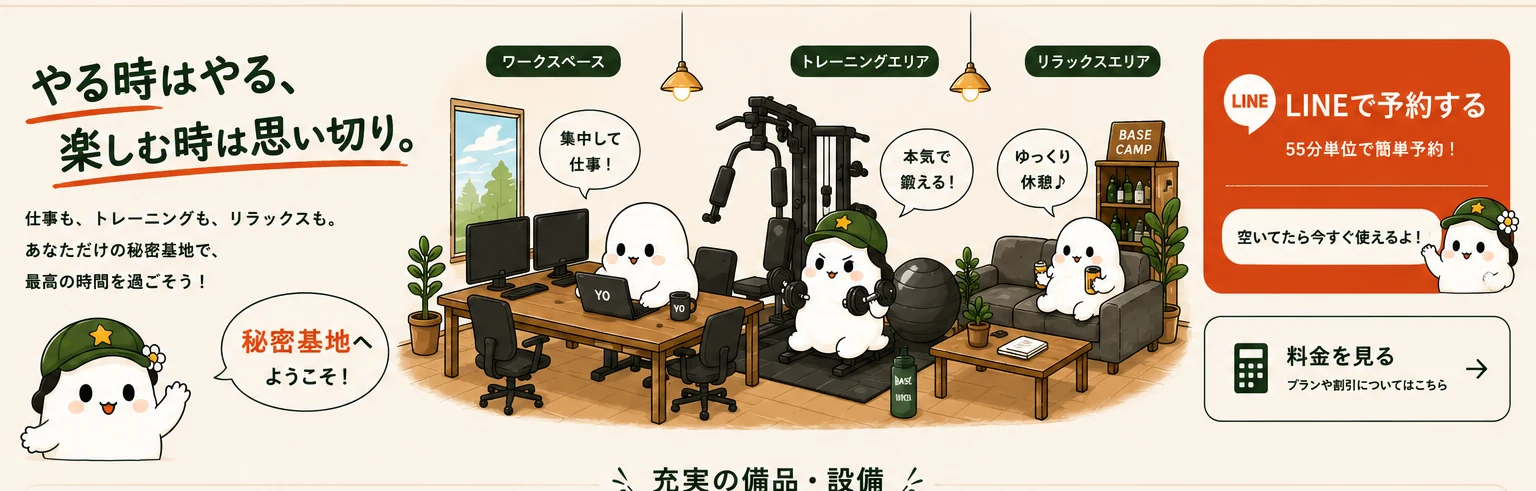
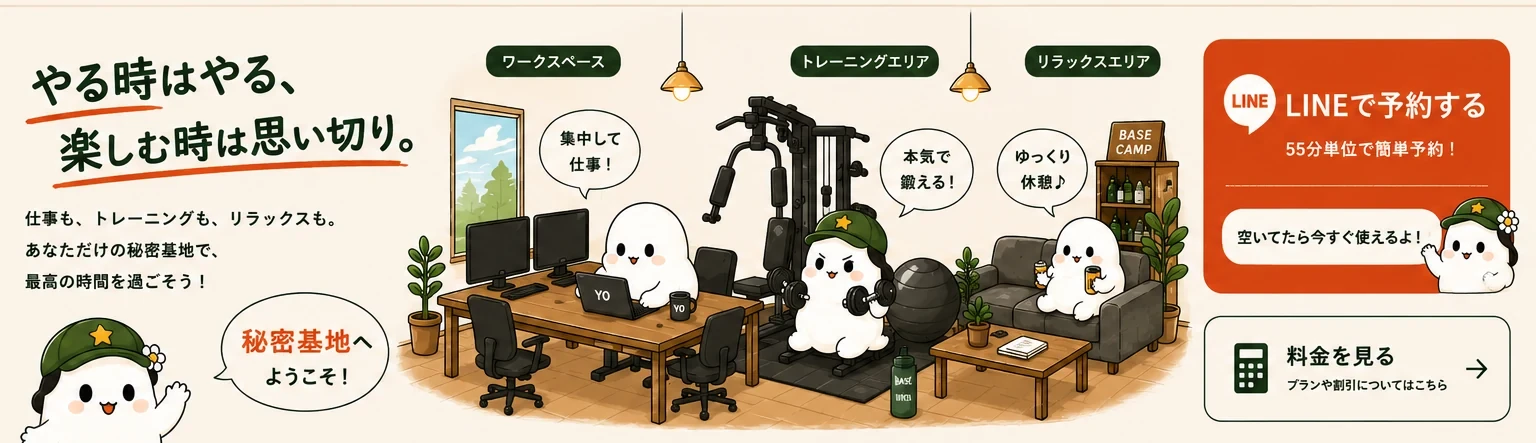
Add files via upload

diff --git a/style.css b/style.css
@@ -1,21 +1,138 @@
-const menu=document.querySelector('.menu-button');const nav=document.querySelector('.nav');
-menu.addEventListener('click',()=>{nav.classList.toggle('open');menu.setAttribute('aria-expanded',nav.classList.contains('open'))});
-document.querySelectorAll('.nav a').forEach(a=>a.addEventListener('click',()=>nav.classList.remove('open')));
-const observer=new IntersectionObserver(entries=>entries.forEach(entry=>{if(entry.isIntersecting)entry.target.classList.add('visible')}),{threshold:.12});
-document.querySelectorAll('.reveal').forEach(el=>observer.observe(el));
-document.getElementById('line-reserve').addEventListener('click',e=>{e.preventDefault();alert('LINE公式アカウントの予約URL取得後に接続します。')});
+@import url('https://fonts.googleapis.com/css2?family=Noto+Sans+JP:wght@400;600;800;900&display=swap');
+:root{--cream:#f8f1e7;--soft:#eee3d3;--green:#123d2a;--ink:#12251b;--red:#de3c2b;--orange:#ef5b24;--line:#d8cbb8}
+*{box-sizing:border-box}html{scroll-behavior:smooth}body{margin:0;background:var(--cream);color:var(--ink);font-family:'Noto Sans JP',sans-serif;line-height:1.8;overflow-x:hidden}
+.site-header{position:sticky;top:0;z-index:50;min-height:82px;display:flex;align-items:center;gap:28px;padding:12px 4vw;background:rgba(248,241,231,.97);border-bottom:1px solid var(--line);backdrop-filter:blur(10px)}
+.brand{display:flex;align-items:center;gap:12px;color:var(--green);text-decoration:none;font-weight:900;line-height:1}.brand-copy strong,.brand-copy small{display:block}.brand-copy strong{font-size:1.35em}.brand-copy small{font-size:10px;letter-spacing:.14em;margin-top:5px}.brand-emblem{display:grid;place-items:center;width:50px;height:50px;border:2px solid var(--green);border-radius:14px;font-size:14px}
+.nav{display:flex;gap:21px;margin-left:auto}.nav a{text-decoration:none;color:var(--ink);font-size:13px;font-weight:800}.menu-button{display:none;border:0;background:none;font-weight:900}
+.reserve-button{display:inline-block;background:linear-gradient(135deg,#ed4a32,var(--red));color:white;text-decoration:none;font-weight:900;border-radius:15px;padding:15px 28px;box-shadow:0 10px 24px rgba(222,60,43,.25);transition:.25s}.reserve-button:hover{transform:translateY(-4px) scale(1.025);box-shadow:0 16px 30px rgba(222,60,43,.36)}.reserve-button:active{transform:scale(.98)}.compact{padding:12px 18px;font-size:13px}
+.hero{width:100%;background:#fff;overflow:hidden}.hero img{display:block;width:100%;height:auto}
+.section{max-width:1180px;margin:auto;padding:88px 5vw;position:relative;overflow:hidden}.section.soft{max-width:none;background:var(--soft);padding-left:max(5vw,calc((100vw - 1180px)/2 + 5vw));padding-right:max(5vw,calc((100vw - 1180px)/2 + 5vw))}
+.section-label{color:var(--red);font-size:13px;font-weight:900;letter-spacing:.14em}.section h1,.section h2{font-size:clamp(32px,4vw,56px);line-height:1.25;margin:.1em 0 .5em}.lead{font-size:18px;max-width:850px}
+.equipment-grid{display:grid;grid-template-columns:repeat(3,1fr);gap:20px;margin-top:32px}.equipment-grid article{background:#fff;border:1px solid var(--line);border-radius:24px;padding:27px;transition:.25s;overflow:hidden}.equipment-grid article:hover{transform:translateY(-6px)}.equipment-art{display:block;width:100%;height:200px;color:#2f3d35;background:#fbf8f2;border-radius:18px;padding:10px}.equipment-grid h3{font-size:22px;margin:.8em 0 .25em}
+.price-grid{display:grid;grid-template-columns:repeat(5,1fr);gap:14px;margin-top:34px}.price-grid article{position:relative;display:flex;flex-direction:column;text-align:center;background:#fff;border:1px solid var(--line);border-radius:18px;padding:24px 12px}.price-grid span{font-weight:900;font-size:22px}.price-grid strong{font-size:34px;margin:.45em 0}.price-grid small{opacity:.7}.price-grid .popular{border:3px solid var(--orange)}.price-grid .popular b{position:absolute;top:-18px;left:50%;transform:translateX(-50%);background:var(--orange);color:#fff;padding:5px 15px;border-radius:999px;white-space:nowrap}
+.persona-layout{display:grid;grid-template-columns:1.2fr .8fr;gap:38px;align-items:center}.persona-image{display:block;width:100%;max-height:620px;object-fit:contain;border-radius:25px;box-shadow:0 16px 40px rgba(20,40,28,.12)}.note{background:#fff5d9;border-left:5px solid #d7aa3b;padding:16px 18px}
+.story-copy{max-width:900px}.story-copy p{margin:0 0 1.15em}.quote{font-size:clamp(24px,3vw,38px);font-weight:900;color:var(--green);border-left:7px solid var(--red);padding-left:22px;margin-top:1.5em!important}
+.access-card{display:flex;align-items:center;justify-content:space-between;gap:28px;background:#fff;border:1px solid var(--line);border-radius:24px;padding:28px}.access-card strong{font-size:23px}.outline-button{display:inline-block;border:2px solid var(--green);color:var(--green);text-decoration:none;padding:13px 20px;border-radius:14px;font-weight:900;white-space:nowrap;transition:.25s}.outline-button:hover{background:var(--green);color:#fff;transform:translateY(-3px)}
+.reserve-section{text-align:center;background:var(--green);color:#fff;padding:85px 5vw;overflow:hidden}.reserve-section p{font-size:clamp(26px,4vw,46px);font-weight:900}.reserve-section small{display:block;margin-top:17px;opacity:.75}
+footer{display:flex;justify-content:space-between;gap:20px;background:#071e15;color:#fff;padding:26px 5vw;font-size:13px}
+.reveal{opacity:0;transform:translateY(26px);transition:.75s ease}.reveal.visible{opacity:1;transform:none}.float-motion{animation:float 4s ease-in-out infinite}.pulse{animation:pulse 2.2s ease-in-out infinite}
+@keyframes float{50%{transform:translateY(-8px)}}@keyframes pulse{50%{box-shadow:0 0 0 9px rgba(237,74,50,.13),0 14px 28px rgba(222,60,43,.36)}}
+@media(max-width:950px){.nav{display:none;position:absolute;top:82px;left:0;right:0;flex-direction:column;padding:22px 6vw;background:var(--cream);border-bottom:1px solid var(--line)}.nav.open{display:flex}.menu-button{display:block;margin-left:auto}.compact{display:none}.equipment-grid{grid-template-columns:1fr}.price-grid{grid-template-columns:1fr 1fr}.persona-layout{grid-template-columns:1fr}.access-card{flex-direction:column;align-items:flex-start}footer{flex-direction:column;text-align:center}}
+@media(max-width:560px){.site-header{min-height:72px}.nav{top:72px}.brand-emblem{width:42px;height:42px}.section{padding-top:66px;padding-bottom:66px}.price-grid{grid-template-columns:1fr}.hero img{width:150%;max-width:none;transform:translateX(-18%)}.equipment-art{height:180px}}
 
-const imageModal=document.querySelector('.image-modal');
-const modalImage=imageModal.querySelector('img');
-const closeModal=()=>{imageModal.classList.remove('open');imageModal.setAttribute('aria-hidden','true');modalImage.src='';};
-document.querySelectorAll('.zoomable').forEach(button=>{
-  button.addEventListener('click',()=>{
-    modalImage.src=button.dataset.image;
-    modalImage.alt=button.querySelector('img').alt;
-    imageModal.classList.add('open');
-    imageModal.setAttribute('aria-hidden','false');
-  });
-});
-imageModal.querySelector('.modal-close').addEventListener('click',closeModal);
-imageModal.addEventListener('click',event=>{if(event.target===imageModal)closeModal();});
-document.addEventListener('keydown',event=>{if(event.key==='Escape')closeModal();});
+.material-grid{display:grid;grid-template-columns:1fr 1fr;gap:24px;margin-top:32px}
+.visual-card{display:block;width:100%;padding:0;border:1px solid var(--line);border-radius:24px;background:#fff;overflow:hidden;cursor:pointer;text-align:left;box-shadow:0 12px 34px rgba(25,43,32,.08);transition:.25s}
+.visual-card:hover{transform:translateY(-5px);box-shadow:0 18px 42px rgba(25,43,32,.15)}
+.visual-card img{display:block;width:100%;height:auto}
+.visual-card span{display:block;padding:14px 18px;color:var(--green);font-weight:900;text-align:center}
+.image-modal{position:fixed;inset:0;z-index:100;display:none;align-items:center;justify-content:center;padding:4vw;background:rgba(5,18,12,.9)}
+.image-modal.open{display:flex}
+.image-modal img{max-width:96vw;max-height:90vh;object-fit:contain;border-radius:14px;background:#fff}
+.modal-close{position:absolute;top:18px;right:22px;width:46px;height:46px;border:0;border-radius:50%;background:#fff;color:var(--ink);font-size:30px;line-height:1;cursor:pointer}
+@media(max-width:950px){.material-grid{grid-template-columns:1fr}}
+
+
+/* Version 1.5 refinements */
+.site-header{
+  gap:18px;
+  padding-left:2.2vw;
+  padding-right:2.2vw;
+}
+.brand{flex:0 0 auto}
+.brand-copy{white-space:nowrap}
+.nav{
+  flex:1 1 auto;
+  min-width:0;
+  justify-content:center;
+  gap:clamp(10px,1.25vw,20px);
+  white-space:nowrap;
+}
+.nav a{
+  font-size:clamp(11px,.82vw,13px);
+  line-height:1;
+  white-space:nowrap;
+}
+.compact{
+  flex:0 0 auto;
+  padding:11px 15px;
+  font-size:12px;
+  white-space:nowrap;
+}
+.hero img{
+  width:100%;
+  height:auto;
+  object-fit:cover;
+  object-position:center top;
+}
+#equipment{
+  padding-top:72px;
+}
+.equipment-grid article{
+  box-shadow:0 10px 28px rgba(25,43,32,.07);
+}
+.equipment-art{
+  background:linear-gradient(145deg,#fffdf8,#f3ecdf);
+  color:#314238;
+}
+.equipment-grid article:nth-child(1) .equipment-art{color:#214d36}
+.equipment-grid article:nth-child(2) .equipment-art{color:#a65b13}
+.equipment-grid article:nth-child(3) .equipment-art{color:#244c73}
+
+.story-title{
+  font-family:"Yuji Syuku","Klee One","Hiragino Maru Gothic ProN","Yu Gothic",sans-serif;
+  font-size:clamp(28px,3.1vw,48px)!important;
+  font-weight:600!important;
+  letter-spacing:.045em;
+  line-height:1.35!important;
+  white-space:nowrap;
+  transform:rotate(-1.1deg);
+  transform-origin:left center;
+  padding-bottom:.28em;
+  border-bottom:4px solid var(--red);
+  width:max-content;
+  max-width:100%;
+}
+.handwritten-copy{
+  font-family:"Klee One","Yuji Syuku","Hiragino Maru Gothic ProN","Yu Gothic",sans-serif;
+  font-size:17px;
+  line-height:2.1;
+  letter-spacing:.035em;
+}
+.handwritten-copy > p:not(.quote){
+  transform:rotate(-.25deg);
+  transform-origin:left center;
+}
+.handwritten-copy > p:nth-child(even):not(.quote){
+  transform:rotate(.2deg);
+}
+.handwritten-copy .quote{
+  font-family:'Noto Sans JP',sans-serif;
+  transform:none;
+}
+@media(max-width:1180px){
+  .nav{
+    display:none;
+    position:absolute;
+    top:82px;
+    left:0;
+    right:0;
+    flex-direction:column;
+    align-items:flex-start;
+    padding:22px 6vw;
+    background:var(--cream);
+    border-bottom:1px solid var(--line);
+    white-space:normal;
+  }
+  .nav.open{display:flex}
+  .nav a{font-size:14px;line-height:1.5}
+  .menu-button{display:block;margin-left:auto}
+  .compact{display:none}
+}
+@media(max-width:820px){
+  .story-title{
+    white-space:normal;
+    width:auto;
+    font-size:clamp(27px,7vw,40px)!important;
+  }
+  .handwritten-copy{font-size:16px}
+}

diff --git a/script.js b/script.js
@@ -1,21 +1,21 @@
-BASE CAMP YAMATO Version 1.5
-=============================
+const menu=document.querySelector('.menu-button');const nav=document.querySelector('.nav');
+menu.addEventListener('click',()=>{nav.classList.toggle('open');menu.setAttribute('aria-expanded',nav.classList.contains('open'))});
+document.querySelectorAll('.nav a').forEach(a=>a.addEventListener('click',()=>nav.classList.remove('open')));
+const observer=new IntersectionObserver(entries=>entries.forEach(entry=>{if(entry.isIntersecting)entry.target.classList.add('visible')}),{threshold:.12});
+document.querySelectorAll('.reveal').forEach(el=>observer.observe(el));
+document.getElementById('line-reserve').addEventListener('click',e=>{e.preventDefault();alert('LINE公式アカウントの予約URL取得後に接続します。')});
 
-反映内容
-- ひとつ前に採用したトップ画像を継続使用
-- トップ画像下部の「充実の備品・設備」が切れて見える部分をカット
-- ヘッダーナビゲーションの2段折り返しを防止
-- 横幅が足りない画面では、早めにMENU表示へ切り替え
-- 不要な「料金表画像は追加していません」の文章を削除
-- オーナーの想いの見出しをPCでは1行・手書き風に変更
-- オーナー本文を手書き風の少し斜めの文字に変更
-- 最後の強調メッセージは従来の太字デザインを維持
-- トレーニング説明を各種小道具の常備が伝わる内容へ変更
-- 住所を宮前区土橋4丁目3-28へ変更
-- 鷺沼駅徒歩15分、渋谷から田園都市線で1本・23分へ変更
-
-GitHubへの更新
-1. ZIPを解凍
-2. index.html / style.css / script.js / assets をアップロード
-3. Commit changes
-4. 1〜3分後に公開ページを Ctrl+F5 で再読み込み
+const imageModal=document.querySelector('.image-modal');
+const modalImage=imageModal.querySelector('img');
+const closeModal=()=>{imageModal.classList.remove('open');imageModal.setAttribute('aria-hidden','true');modalImage.src='';};
+document.querySelectorAll('.zoomable').forEach(button=>{
+  button.addEventListener('click',()=>{
+    modalImage.src=button.dataset.image;
+    modalImage.alt=button.querySelector('img').alt;
+    imageModal.classList.add('open');
+    imageModal.setAttribute('aria-hidden','false');
+  });
+});
+imageModal.querySelector('.modal-close').addEventListener('click',closeModal);
+imageModal.addEventListener('click',event=>{if(event.target===imageModal)closeModal();});
+document.addEventListener('keydown',event=>{if(event.key==='Escape')closeModal();});